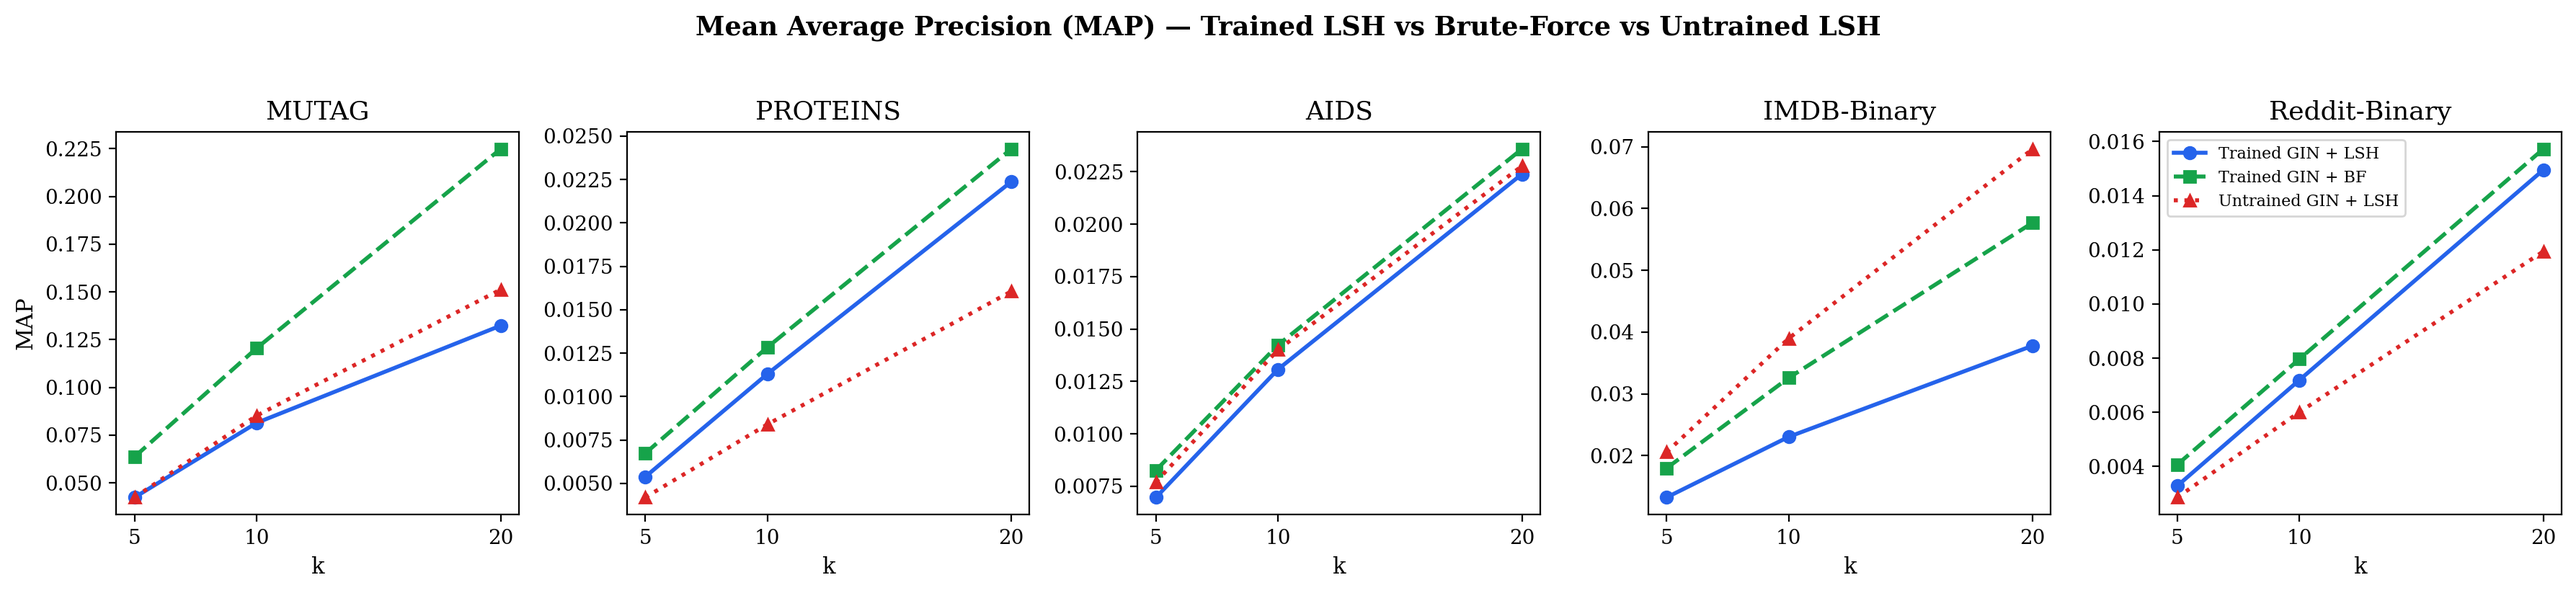
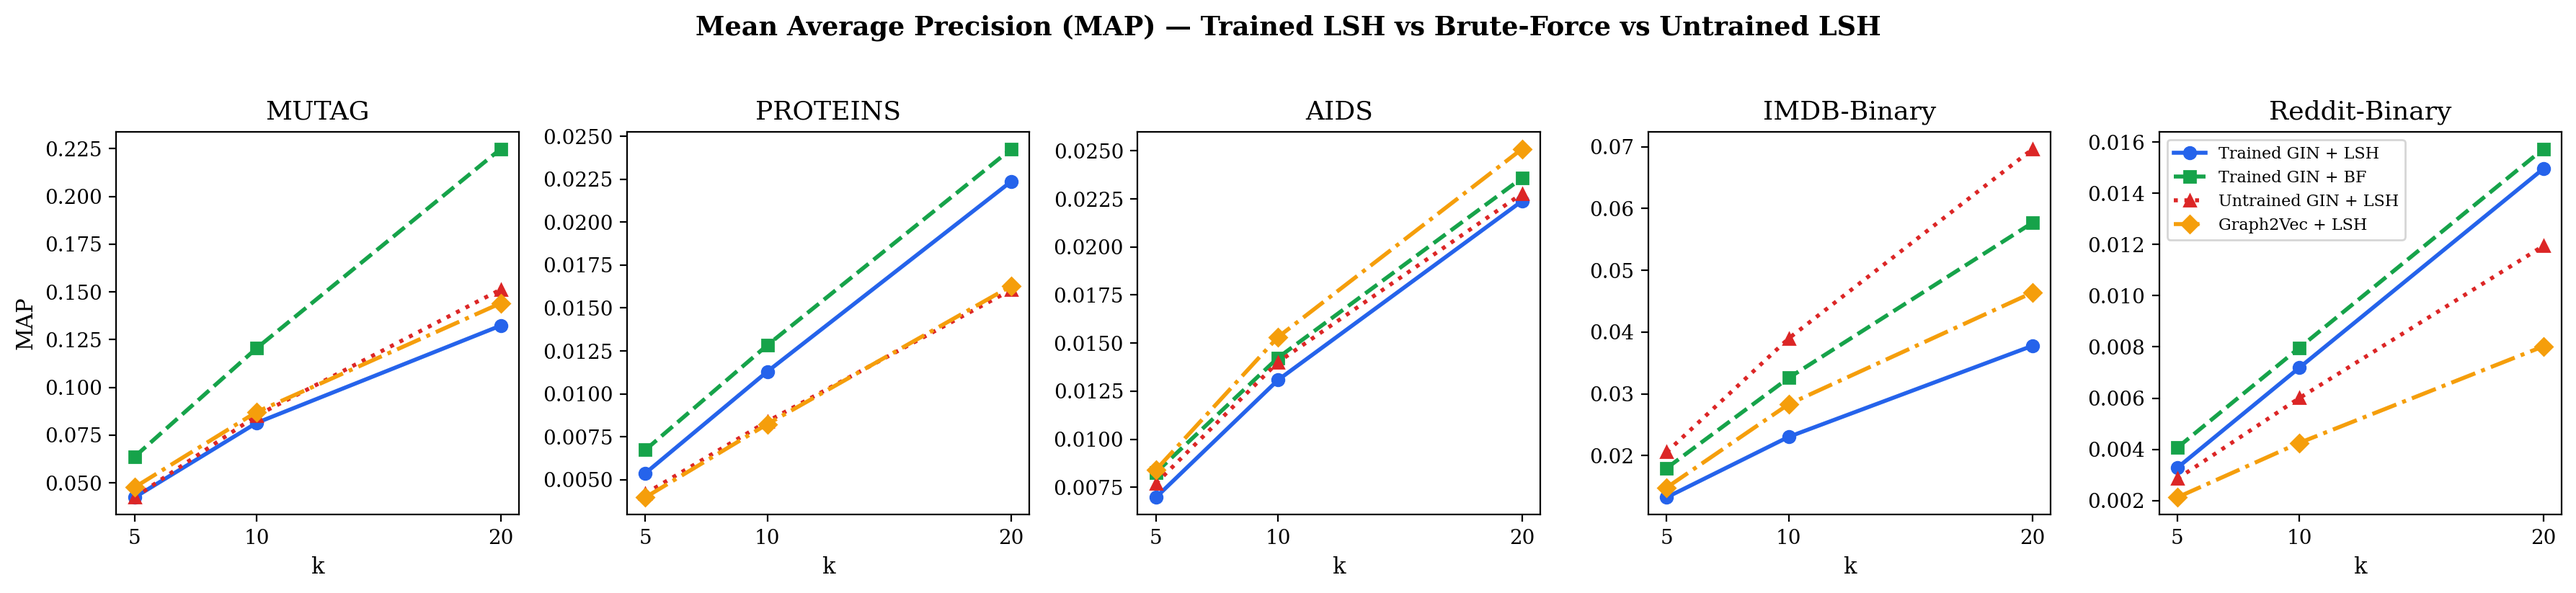
updated graphs

diff --git a/generate_graphs.py b/generate_graphs.py
@@ -29,7 +29,7 @@ os.makedirs(OUT, exist_ok=True)
 DATASETS = ["mutag", "proteins", "aids", "imdb-binary", "reddit-binary"]
 PRETTY = {"mutag": "MUTAG", "proteins": "PROTEINS", "aids": "AIDS",
            "imdb-binary": "IMDB-Binary", "reddit-binary": "Reddit-Binary"}
-COLORS = {"trained_lsh": "#2563eb", "trained_bf": "#16a34a", "untrained_lsh": "#dc2626"}
+COLORS = {"trained_lsh": "#2563eb", "trained_bf": "#16a34a", "untrained_lsh": "#dc2626", "graph2vec_lsh": "#f59e0b"}
 K_VALS = [5, 10, 20]
 
 
@@ -41,6 +41,14 @@ def load_eval(ds):
 def load_ablation(ds):
     with open(f"outputs/{ds}/lsh_ablation.json") as f:
         return json.load(f)
+
+
+def load_eval_g2v(ds):
+    path = f"outputs/{ds}/evaluation_results_graph2vec.json"
+    if os.path.exists(path):
+        with open(path) as f:
+            return json.load(f)["metrics"]["graph2vec"]
+    return None
 
 
 # ========================================================================
@@ -62,10 +70,14 @@ def fig1_precision_comparison():
         t_lsh = [trained[str(k)]["lsh"]["Precision@k"] for k in K_VALS]
         t_bf  = [trained[str(k)]["bf"]["Precision@k"] for k in K_VALS]
         u_lsh = [untrained[str(k)]["lsh"]["Precision@k"] for k in K_VALS]
+        g2v = load_eval_g2v(ds)
 
         ax.plot(K_VALS, t_lsh, "o-", color=COLORS["trained_lsh"], label="Trained GIN + LSH", linewidth=2, markersize=6)
         ax.plot(K_VALS, t_bf, "s--", color=COLORS["trained_bf"], label="Trained GIN + BF", linewidth=2, markersize=6)
         ax.plot(K_VALS, u_lsh, "^:", color=COLORS["untrained_lsh"], label="Untrained GIN + LSH", linewidth=2, markersize=6)
+        if g2v:
+            g_lsh = [g2v[str(k)]["lsh"]["Precision@k"] for k in K_VALS]
+            ax.plot(K_VALS, g_lsh, "D-.", color=COLORS["graph2vec_lsh"], label="Graph2Vec + LSH", linewidth=2, markersize=6)
 
         ax.set_title(PRETTY[ds])
         ax.set_xlabel("k")
@@ -94,10 +106,14 @@ def fig2_map_comparison():
         t_lsh = [trained[str(k)]["lsh"]["MAP"] for k in K_VALS]
         t_bf  = [trained[str(k)]["bf"]["MAP"] for k in K_VALS]
         u_lsh = [untrained[str(k)]["lsh"]["MAP"] for k in K_VALS]
+        g2v = load_eval_g2v(ds)
 
         ax.plot(K_VALS, t_lsh, "o-", color=COLORS["trained_lsh"], label="Trained GIN + LSH", linewidth=2, markersize=6)
         ax.plot(K_VALS, t_bf, "s--", color=COLORS["trained_bf"], label="Trained GIN + BF", linewidth=2, markersize=6)
         ax.plot(K_VALS, u_lsh, "^:", color=COLORS["untrained_lsh"], label="Untrained GIN + LSH", linewidth=2, markersize=6)
+        if g2v:
+            g_lsh = [g2v[str(k)]["lsh"]["MAP"] for k in K_VALS]
+            ax.plot(K_VALS, g_lsh, "D-.", color=COLORS["graph2vec_lsh"], label="Graph2Vec + LSH", linewidth=2, markersize=6)
 
         ax.set_title(PRETTY[ds])
         ax.set_xlabel("k")
@@ -147,32 +163,38 @@ def fig4_query_time():
     fig.suptitle("Average Query Time at k=10 — LSH vs Brute-Force", fontweight="bold")
 
     x = np.arange(len(DATASETS))
-    w = 0.35
+    w = 0.25
 
     lsh_times = []
     bf_times = []
+    g2v_times = []
     for ds in DATASETS:
         data = load_eval(ds)
         trained = data["metrics"]["trained"]
         lsh_times.append(trained["10"]["lsh"]["Query Time(ms)"])
         bf_times.append(trained["10"]["bf"]["Query Time(ms)"])
+        g2v = load_eval_g2v(ds)
+        if g2v:
+            g2v_times.append(g2v["10"]["lsh"]["Query Time(ms)"])
+        else:
+            g2v_times.append(0.0)
 
-    bars1 = ax.bar(x - w/2, lsh_times, w, label="LSH-ANN", color="#2563eb", alpha=0.85)
-    bars2 = ax.bar(x + w/2, bf_times, w, label="Brute-Force", color="#16a34a", alpha=0.85)
+    bars1 = ax.bar(x - w, lsh_times, w, label="Trained GIN+LSH", color="#2563eb", alpha=0.85)
+    bars2 = ax.bar(x, bf_times, w, label="Trained GIN+BF", color="#16a34a", alpha=0.85)
+    bars3 = ax.bar(x + w, g2v_times, w, label="Graph2Vec+LSH", color="#f59e0b", alpha=0.85)
 
     ax.set_xticks(x)
     ax.set_xticklabels([PRETTY[ds] for ds in DATASETS])
     ax.set_ylabel("Query Time (ms)")
-    ax.legend()
+    ax.legend(fontsize=9)
     ax.grid(axis="y", alpha=0.3)
 
     # Add value labels on bars
-    for bar in bars1:
-        ax.text(bar.get_x() + bar.get_width()/2., bar.get_height(),
-                f'{bar.get_height():.3f}', ha='center', va='bottom', fontsize=8)
-    for bar in bars2:
-        ax.text(bar.get_x() + bar.get_width()/2., bar.get_height(),
-                f'{bar.get_height():.3f}', ha='center', va='bottom', fontsize=8)
+    for bars in [bars1, bars2, bars3]:
+        for bar in bars:
+            if bar.get_height() > 0:
+                ax.text(bar.get_x() + bar.get_width()/2., bar.get_height(),
+                        f'{bar.get_height():.3f}', ha='center', va='bottom', fontsize=8)
 
     fig.tight_layout()
     fig.savefig(f"{OUT}/query_time_comparison.png", bbox_inches="tight")
@@ -285,25 +307,29 @@ def fig7_index_stats():
 
 
 # ========================================================================
-# Figure 8: Trained vs Untrained Precision heatmap
+# Figure 8: Precision Heatmap across embedding methods
 # ========================================================================
-def fig8_trained_vs_untrained_heatmap():
-    fig, (ax1, ax2) = plt.subplots(1, 2, figsize=(14, 5))
-    fig.suptitle("Precision@k Heatmap — Trained vs Untrained GIN + LSH", fontweight="bold")
+def fig8_precision_heatmap():
+    fig, axes = plt.subplots(1, 3, figsize=(18, 5))
+    fig.suptitle("Precision@k Heatmap — Trained GIN vs Untrained GIN vs Graph2Vec (LSH)", fontweight="bold")
 
     # Build matrices
     trained_mat = np.zeros((len(DATASETS), len(K_VALS)))
     untrained_mat = np.zeros((len(DATASETS), len(K_VALS)))
+    g2v_mat = np.zeros((len(DATASETS), len(K_VALS)))
 
     for i, ds in enumerate(DATASETS):
         data = load_eval(ds)
+        g2v = load_eval_g2v(ds)
         for j, k in enumerate(K_VALS):
             trained_mat[i, j] = data["metrics"]["trained"][str(k)]["lsh"]["Precision@k"]
             untrained_mat[i, j] = data["metrics"]["untrained"][str(k)]["lsh"]["Precision@k"]
+            if g2v:
+                g2v_mat[i, j] = g2v[str(k)]["lsh"]["Precision@k"]
 
-    for ax, mat, title in [(ax1, trained_mat, "Trained GIN + LSH"),
-                            (ax2, untrained_mat, "Untrained GIN + LSH")]:
-        im = ax.imshow(mat, cmap="YlGnBu", aspect="auto", vmin=0.6, vmax=1.0)
+    for ax, mat, title in zip(axes, [trained_mat, untrained_mat, g2v_mat], 
+                              ["Trained GIN + LSH", "Untrained GIN + LSH", "Graph2Vec + LSH"]):
+        im = ax.imshow(mat, cmap="YlGnBu", aspect="auto", vmin=0.5, vmax=1.0)
         ax.set_xticks(range(len(K_VALS)))
         ax.set_xticklabels([f"k={k}" for k in K_VALS])
         ax.set_yticks(range(len(DATASETS)))
@@ -313,11 +339,12 @@ def fig8_trained_vs_untrained_heatmap():
         # Annotate cells
         for ii in range(len(DATASETS)):
             for jj in range(len(K_VALS)):
+                if mat[ii, jj] == 0: continue
                 ax.text(jj, ii, f"{mat[ii, jj]:.3f}", ha="center", va="center",
                         fontsize=10, fontweight="bold",
                         color="white" if mat[ii, jj] > 0.85 else "black")
 
-    fig.colorbar(im, ax=[ax1, ax2], shrink=0.8, label="Precision@k")
+    fig.colorbar(im, ax=axes.ravel().tolist(), shrink=0.8, label="Precision@k")
     fig.tight_layout()
     fig.savefig(f"{OUT}/precision_heatmap.png", bbox_inches="tight")
     plt.close(fig)
@@ -384,6 +411,6 @@ if __name__ == "__main__":
     fig5_lsh_ablation_L()
     fig6_w_grid_search()
     fig7_index_stats()
-    fig8_trained_vs_untrained_heatmap()
+    fig8_precision_heatmap()
     fig9_pipeline()
     print(f"\nAll figures saved to {OUT}/")

diff --git a/Project_Report.md b/Project_Report.md
@@ -404,7 +404,7 @@ Key observations:
 ### 11.3 Precision Heatmap
 
 ![Heatmap](graph/precision_heatmap.png)
-*Figure 15: Trained vs Untrained precision heatmap.*
+*Figure 15: Precision heatmap across embedding methods.*
 
 ---
 
